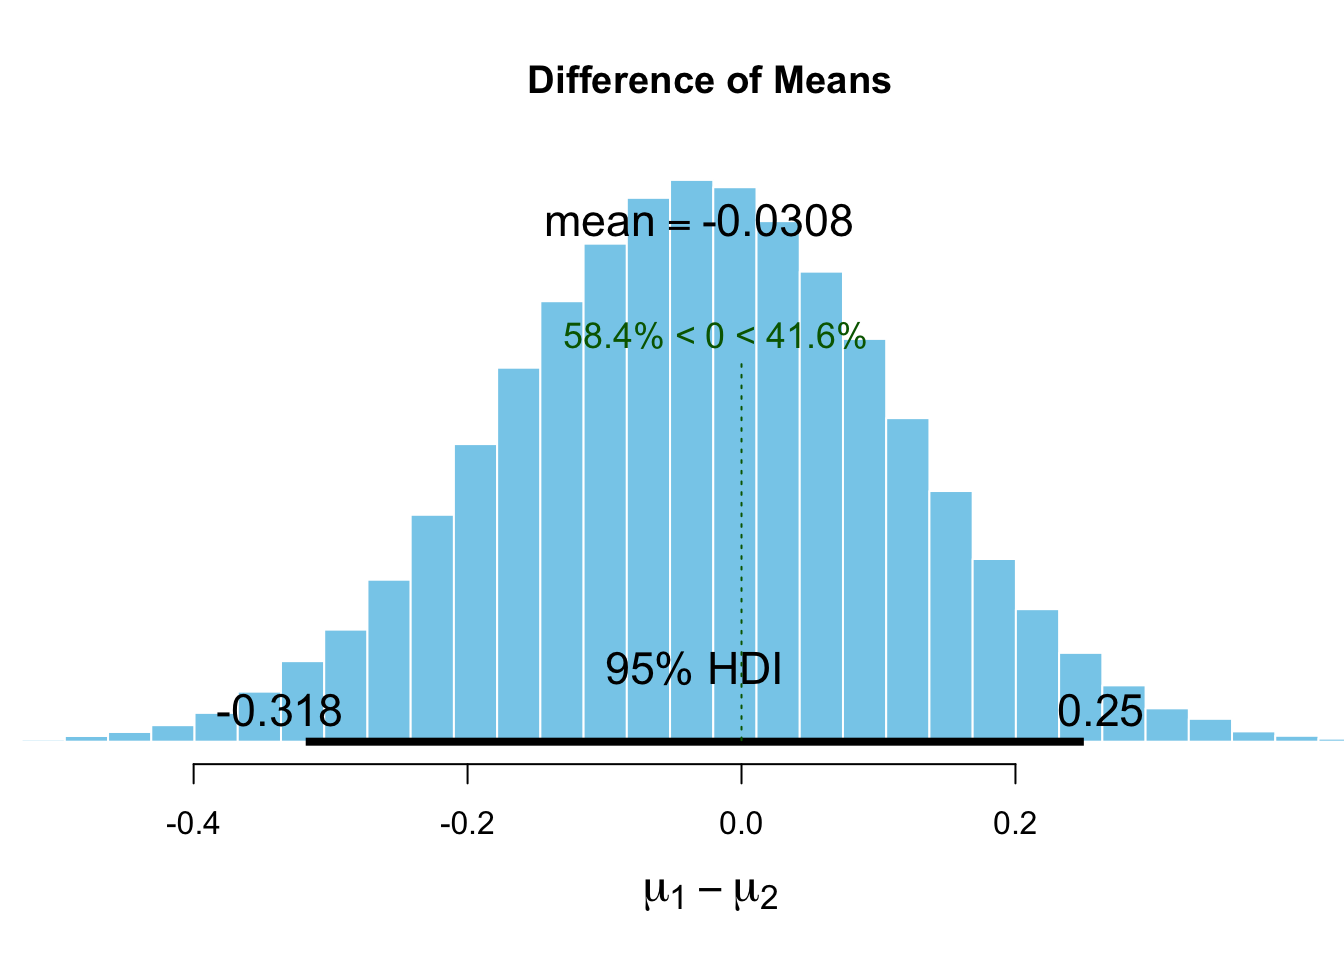
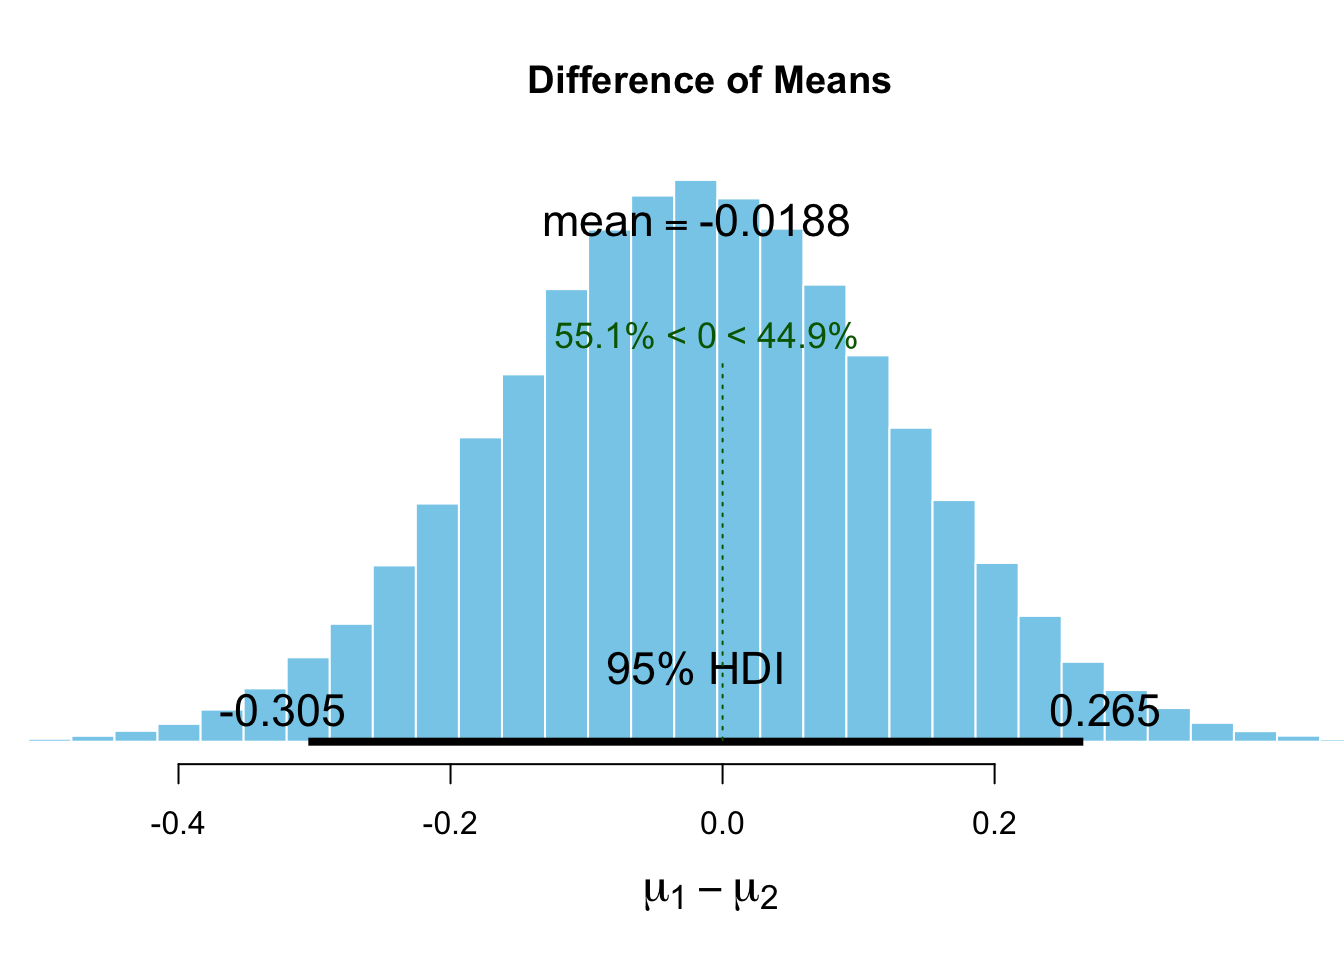
Making supplementary tables

diff --git a/Sociometric_bayesian.html b/Sociometric_bayesian.html
@@ -214,22 +214,22 @@ $(document).ready(function () {
 
 <div id="descriptive-statistics" class="section level1">
 <h1>Descriptive statistics</h1>
-<pre class="r"><code>sociometric.tagged %&gt;% group_by(SD) %&gt;% summarise(mean(speech_profile_total_speaking),sd(speech_profile_total_speaking)) %&gt;% print.data.frame()</code></pre>
+<pre class="r"><code>sociometric.tagged %&gt;% group_by(SD) %&gt;% dplyr::summarise(mean(speech_profile_total_speaking),sd(speech_profile_total_speaking)) %&gt;% print.data.frame()</code></pre>
 <pre><code>##   SD mean(speech_profile_total_speaking) sd(speech_profile_total_speaking)
-## 1  0                            649.5180                          126.6614
+## 1  0                            649.6852                          127.3773
 ## 2  1                            616.1271                          116.4013</code></pre>
-<pre class="r"><code>sociometric.tagged %&gt;% group_by(SD) %&gt;% summarise(mean(audio_front_volume_SCALED),sd(audio_front_volume_SCALED)) </code></pre>
+<pre class="r"><code>sociometric.tagged %&gt;% group_by(SD) %&gt;% dplyr::summarise(mean(audio_front_volume_SCALED),sd(audio_front_volume_SCALED)) </code></pre>
 <pre><code>## # A tibble: 2 x 3
 ##      SD `mean(audio_front_volume_SCALED)` `sd(audio_front_volume_SCALED)`
 ##   &lt;int&gt;                             &lt;dbl&gt;                           &lt;dbl&gt;
-## 1     0                            0.0175                           1.05 
-## 2     1                           -0.0183                           0.952</code></pre>
-<pre class="r"><code>sociometric.tagged %&gt;% group_by(SD) %&gt;% summarise(mean(audio_front_vol_consistency_SCALED),sd(audio_front_vol_consistency_SCALED)) </code></pre>
+## 1     0                            0.0131                           1.05 
+## 2     1                           -0.0136                           0.951</code></pre>
+<pre class="r"><code>sociometric.tagged %&gt;% group_by(SD) %&gt;% dplyr::summarise(mean(audio_front_vol_consistency_SCALED),sd(audio_front_vol_consistency_SCALED)) </code></pre>
 <pre><code>## # A tibble: 2 x 3
 ##      SD `mean(audio_front_vol_consistency_SCALED)` `sd(audio_front_vol_co…
 ##   &lt;int&gt;                                      &lt;dbl&gt;                   &lt;dbl&gt;
-## 1     0                                    -0.0456                   0.989
-## 2     1                                     0.0477                   1.01</code></pre>
+## 1     0                                    -0.0442                   0.992
+## 2     1                                     0.0457                   1.01</code></pre>
 </div>
 <div id="analysis" class="section level1">
 <h1>Analysis</h1>
@@ -244,28 +244,19 @@ Speaking_best &lt;- BESTmcmc(sociometric.tagged$speech_profile_total_speaking[so
                           priors = Speaking.priors,
                           parallel = T)</code></pre>
 <pre><code>## Waiting for parallel processing to complete...done.</code></pre>
-<pre class="r"><code>#running the same to get the priors
-Speaking_best_priors &lt;- BESTmcmc(sociometric.tagged$speech_profile_total_speaking[sociometric.tagged$SD ==1],
-                          sociometric.tagged$speech_profile_total_speaking[sociometric.tagged$SD ==0],
-                          priors = Speaking.priors,
-                          parallel = T,
-                          doPriorsOnly = T)</code></pre>
-<pre><code>## Warning: The output shows the prior distributions,
-##       NOT the posterior distributions for your data.</code></pre>
-<pre><code>## Waiting for parallel processing to complete...done.</code></pre>
 <pre class="r"><code># check the output
 speaking.summary &lt;- summary(Speaking_best)
 speaking.summary</code></pre>
 <pre><code>##              mean  median    mode HDI%   HDIlo    HDIup compVal %&gt;compVal
-## mu1       617.516 617.531 617.232   95 592.322 643.0418                  
-## mu2       648.916 648.910 648.707   95 622.427 675.7920                  
-## muDiff    -31.399 -31.298 -30.305   95 -69.504   4.2837       0      4.65
-## sigma1    113.671 113.184 111.249   95  94.381 133.2795                  
-## sigma2    122.829 122.452 121.912   95 102.158 144.9319                  
-## sigmaDiff  -9.157  -9.147  -8.301   95 -36.638  17.8521       0     25.18
-## nu         38.051  29.367  14.967   95   4.129  97.6668                  
-## log10nu     1.465   1.468   1.516   95   0.853   2.0711                  
-## effSz      -0.266  -0.265  -0.257   95  -0.581   0.0418       0      4.65</code></pre>
+## mu1       617.612 617.628 617.545   95 592.481 643.3252                  
+## mu2       649.119 649.103 648.459   95 622.041 675.8795                  
+## muDiff    -31.507 -31.521 -31.636   95 -68.401   5.4018       0      4.72
+## sigma1    113.695 113.223 111.802   95  94.830 133.7319                  
+## sigma2    123.737 123.347 122.414   95 102.534 145.6126                  
+## sigmaDiff -10.042 -10.016 -10.399   95 -37.205  17.6604       0     23.37
+## nu         38.607  30.039  14.612   95   3.931  98.2869                  
+## log10nu     1.472   1.478   1.481   95   0.873   2.0841                  
+## effSz      -0.265  -0.265  -0.262   95  -0.575   0.0455       0      4.72</code></pre>
 <pre class="r"><code>#Creating a plot of the posterior distribution for the difference between groups
 plot(Speaking_best) #the probability that the true value is smaller than zero = 95.5%</code></pre>
 <p><img src="Sociometric_bayesian_files/figure-html/unnamed-chunk-4-1.png" width="672" /></p>
@@ -287,15 +278,15 @@ total_volume_best &lt;- BESTmcmc(sociometric.tagged$audio_front_volume_SCALED[so
 total_volume.summary &lt;- summary(total_volume_best)
 total_volume.summary</code></pre>
 <pre><code>##              mean  median    mode HDI%  HDIlo  HDIup compVal %&gt;compVal
-## mu1       -0.1034 -0.1048 -0.1063   95 -0.301  0.106                  
-## mu2       -0.0726 -0.0740 -0.0750   95 -0.289  0.149                  
-## muDiff    -0.0308 -0.0307 -0.0431   95 -0.318  0.250       0      41.6
-## sigma1     0.8199  0.8172  0.8231   95  0.632  1.014                  
-## sigma2     0.9051  0.9010  0.8945   95  0.714  1.105                  
-## sigmaDiff -0.0852 -0.0854 -0.0828   95 -0.303  0.139       0      22.2
-## nu        11.1234  7.7187  5.2945   95  2.313 31.044                  
-## log10nu    0.9374  0.8875  0.8058   95  0.476  1.537                  
-## effSz     -0.0359 -0.0357 -0.0523   95 -0.368  0.289       0      41.6</code></pre>
+## mu1       -0.1003 -0.1016 -0.1052   95 -0.304  0.104                  
+## mu2       -0.0815 -0.0833 -0.0971   95 -0.300  0.141                  
+## muDiff    -0.0188 -0.0186 -0.0206   95 -0.305  0.265       0      44.9
+## sigma1     0.8168  0.8134  0.8015   95  0.625  1.008                  
+## sigma2     0.9007  0.8968  0.8916   95  0.702  1.098                  
+## sigmaDiff -0.0840 -0.0839 -0.0804   95 -0.303  0.138       0      22.3
+## nu        11.2256  7.4948  5.3047   95  2.212 31.442                  
+## log10nu    0.9293  0.8748  0.7811   95  0.459  1.536                  
+## effSz     -0.0218 -0.0217 -0.0283   95 -0.349  0.317       0      44.9</code></pre>
 <pre class="r"><code>#Creating a plot of the posterior distribution for the difference between groups
 plot(total_volume_best)</code></pre>
 <p><img src="Sociometric_bayesian_files/figure-html/unnamed-chunk-5-1.png" width="672" /></p>
@@ -317,15 +308,15 @@ variation_volume_best &lt;- BESTmcmc(sociometric.tagged$audio_front_vol_consiste
 variation_volume.summary &lt;- summary(variation_volume_best)
 variation_volume.summary</code></pre>
 <pre><code>##              mean  median    mode HDI%  HDIlo   HDIup compVal %&gt;compVal
-## mu1        0.0365  0.0362  0.0338   95 -0.187   0.257                  
-## mu2       -0.0546 -0.0546 -0.0552   95 -0.261   0.157                  
-## muDiff     0.0911  0.0916  0.0932   95 -0.210   0.397       0      72.2
-## sigma1     1.0049  1.0000  0.9893   95  0.842   1.168                  
-## sigma2     0.9785  0.9741  0.9672   95  0.828   1.138                  
-## sigmaDiff  0.0264  0.0255  0.0253   95 -0.190   0.253       0      59.2
-## nu        47.1148 38.9220 24.6997   95  6.287 110.205                  
-## log10nu    1.5845  1.5902  1.6094   95  1.042   2.125                  
-## effSz      0.0920  0.0925  0.0961   95 -0.209   0.399       0      72.2</code></pre>
+## mu1        0.0341  0.0341  0.0336   95 -0.185   0.256                  
+## mu2       -0.0530 -0.0533 -0.0546   95 -0.267   0.159                  
+## muDiff     0.0871  0.0864  0.0712   95 -0.221   0.389       0      71.2
+## sigma1     1.0022  0.9974  0.9928   95  0.849   1.172                  
+## sigma2     0.9820  0.9779  0.9791   95  0.826   1.138                  
+## sigmaDiff  0.0202  0.0198  0.0166   95 -0.201   0.245       0      57.1
+## nu        47.2912 38.9616 24.8925   95  6.358 109.834                  
+## log10nu    1.5865  1.5906  1.5714   95  1.038   2.120                  
+## effSz      0.0879  0.0872  0.0723   95 -0.222   0.391       0      71.2</code></pre>
 <pre class="r"><code>#Creating a plot of the posterior distribution for the difference between groups
 plot(variation_volume_best)</code></pre>
 <p><img src="Sociometric_bayesian_files/figure-html/unnamed-chunk-6-1.png" width="672" /></p>
